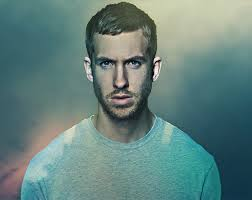
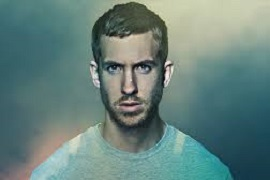
resize images, new dashboard design, added ngIf, ngClass

diff --git a/app/mock-djs.ts b/app/mock-djs.ts
@@ -1,7 +1,7 @@
 import {Dj} from './dj';
 
 export var Djs: Dj[] = [
-	{ id: 11, name: 'Dimitri Vegas & Like Mike', rank: 1, imageUrl: 'app/images/Dj-Dimitri-Vegas-Like-Mike.png' },
+	{ id: 11, name: 'Dimitri Vegas & Like Mike', rank: 1, imageUrl: 'app/images/Dj-Dimitri-Vegas-Like-Mike.jpg' },
 	{ id: 12, name: 'Hardwell', rank: 2, imageUrl: 'app/images/Dj-Hardwell.jpg' },
 	{ id: 13, name: 'Matin Garrix', rank: 3, imageUrl: 'app/images/Dj-Martin-Garrix.jpg' },
 	{ id: 14, name: 'Admin Van Buuran', rank: 4, imageUrl: 'app/images/Dj-Admin-Van-Buuran.jpg' },
@@ -18,9 +18,8 @@ export var Djs: Dj[] = [
 	{ id: 25, name: 'Dash Berlin', rank: 15, imageUrl: 'app/images/Dj-Dash-Berlin.jpg' },
 	{ id: 26, name: 'DVBBS', rank: 16, imageUrl: 'app/images/Dj-DVBBS.jpg' },
 	{ id: 27, name: 'Axwell & Ingr0sso', rank: 17, imageUrl: 'app/images/Dj-Axwell&Ingr0sso.jpg' },
-	{ id: 28, name: 'Nicky Romero ', rank: 18, imageUrl: 'app/images/Dj-Nicky-Romero.jpg' },
-	{ id: 29, name: 'Blasterjaxx', rank: 19, imageUrl: 'app/images/Dj-Blasterjaxx.jpg' },
-	{ id: 30, name: 'Diplo', rank: 20, imageUrl: 'app/images/Dj-Diplo.jpg' }
+	{ id: 28, name: 'Blasterjaxx', rank: 19, imageUrl: 'app/images/Dj-Blasterjaxx.jpg' },
+	{ id: 29, name: 'Diplo', rank: 20, imageUrl: 'app/images/Dj-Diplo.jpg' }
 ];
 
 // Source from: http://djmag.com/top100dj

diff --git a/app/dashboard/dashboard.component.html b/app/dashboard/dashboard.component.html
@@ -1,6 +1,6 @@
 <h3>Top Djs</h3>
 <div class="row">
-	<div class="col s12" *ngFor="#dj of Djs" [ngClass]="{l6: dj.rank === 1, l3	: dj.rank < 6, l2 : dj.rank >= 6}">
+	<div class="col s12" *ngFor="#dj of Djs" [ngClass]="{l6: dj.rank === 1, l3: dj.rank < 6, l2: dj.rank >= 6}">
 		<div class="card">
 			<div class="card-image waves-effect waves-block waves-light" (click)="gotoDetail(dj)">
       			<img class="activator" src="{{ dj.imageUrl }}">
@@ -9,6 +9,9 @@
 	      		<span class="card-title grey-text text-darken-4" style="font-size: 1em; font-weight: 500;">
 		      		{{ dj.name }}
 	      		</span>
+	      		<div *ngIf="dj.rank === 1">
+	      			<div style="height:94px;"> {{dj.name }} Ranks {{ dj. rank }} in 2015!</div>
+	      		</div>
 		    </div>
 		</div>
 	</div>
